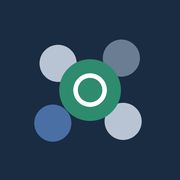
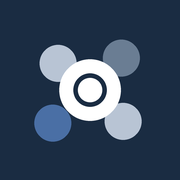
Chooser: Auswahl in Navy-Blautönen statt Grün

Changed region(s): [[0.3056, 0.3056, 0.6944, 0.6944]]

diff --git a/chooser/index.html b/chooser/index.html
@@ -14,7 +14,7 @@
 <link rel="icon" type="image/png" href="icon-192.png">
 <title>Chooser</title>
 <style>
-/* Navy Research: weißer Grund, ein Navy, Grün nur für „gewählt“. Oben eine schmale Leiste mit der Anzahl,
+/* Navy Research: weißer Grund, Blautöne; „gewählt“ ist Navy (im Dunkeln Blau). Oben eine schmale Leiste mit der Anzahl,
    darunter die ganze Fläche für Finger. Kreise sind die einzige runde Form (radius-dot). */
 :root {
   --sans: "Neue Montreal", "Helvetica Neue", Helvetica, Arial, sans-serif;
@@ -26,7 +26,8 @@
   --rule: #d6dce4;        /* line */
   --accent: #1a2c42;      /* navy */
   --on-accent: #ffffff;
-  --chosen: #2e8b6e;      /* green: gewählt */
+  --chosen: #1a2c42;      /* navy: gewählt */
+  --chosen-text: #1a2c42;
   --focus: #4a6fa5;
   /* Fingerfarben: Reihenfolge der Navy-Serien */
   --f1: #1a2c42; --f2: #4a6fa5; --f3: #6a7d93; --f4: #3a4a5c; --f5: #b8c4d4; --f6: #0d1b2a;
@@ -35,14 +36,14 @@
 @media (prefers-color-scheme: dark) {
   :root:not([data-theme="light"]) {
     --bg: #0d1b2a; --surface: #1a2c42; --text: #ffffff; --small: #dde3ea; --muted: #b8c4d4;
-    --rule: #6a7d93; --accent: #ffffff; --on-accent: #0d1b2a; --chosen: #3fae8b; --focus: #b8c4d4;
+    --rule: #6a7d93; --accent: #ffffff; --on-accent: #0d1b2a; --chosen: #4a6fa5; --chosen-text: #b8c4d4; --focus: #b8c4d4;
     --f1: #ffffff; --f2: #b8c4d4; --f3: #4a6fa5; --f4: #dde3ea; --f5: #6a7d93; --f6: #e8eef6;
     color-scheme: dark;
   }
 }
 :root[data-theme="dark"] {
   --bg: #0d1b2a; --surface: #1a2c42; --text: #ffffff; --small: #dde3ea; --muted: #b8c4d4;
-  --rule: #6a7d93; --accent: #ffffff; --on-accent: #0d1b2a; --chosen: #3fae8b; --focus: #b8c4d4;
+  --rule: #6a7d93; --accent: #ffffff; --on-accent: #0d1b2a; --chosen: #4a6fa5; --chosen-text: #b8c4d4; --focus: #b8c4d4;
   --f1: #ffffff; --f2: #b8c4d4; --f3: #4a6fa5; --f4: #dde3ea; --f5: #6a7d93; --f6: #e8eef6;
   color-scheme: dark;
 }
@@ -92,7 +93,7 @@ h1 { margin: 0; font-size: 24px; font-weight: 700; letter-spacing: -.01em; }
 }
 .status .big { margin: 0; font-size: clamp(26px, 7vmin, 40px); font-weight: 700; line-height: 1.1; text-wrap: balance; }
 .status .line { margin: 0; font-size: 16px; color: var(--small); text-wrap: balance; max-width: 34ch; }
-.status.done .big { color: var(--chosen); }
+.status.done .big { color: var(--chosen-text); }
 .status.flood .big, .status.flood .line { color: #ffffff; }
 .status.center { top: 50%; transform: translateY(-50%); }
 
@@ -169,7 +170,7 @@ h1 { margin: 0; font-size: 24px; font-weight: 700; letter-spacing: -.01em; }
 
   /* ---------- Finger ---------- */
   var stage = $("#stage"), cv = $("#cv"), ctx = cv.getContext("2d");
-  var palette = [], chosenColor = "#2e8b6e", textColor = "#0d1b2a", bgColor = "#ffffff";
+  var palette = [], chosenColor = "#1a2c42", textColor = "#0d1b2a", bgColor = "#ffffff";
   function readColors() {
     var cs = getComputedStyle(document.documentElement);
     palette = ["--f1", "--f2", "--f3", "--f4", "--f5", "--f6"].map(function (v) { return cs.getPropertyValue(v).trim(); });
@@ -346,7 +347,7 @@ h1 { margin: 0; font-size: 24px; font-weight: 700; letter-spacing: -.01em; }
       beat = Math.pow(Math.sin(Math.PI * Math.min(1, p / 0.55)), 2);  // Schlag in der ersten Hälfte, dann Ruhe
     }
 
-    // Eine Person gewählt: Grün flutet vom Gewinnerfinger aus den Bildschirm
+    // Eine Person gewählt: Navy flutet vom Gewinnerfinger aus den Bildschirm
     if (done && flood) {
       var maxR = Math.hypot(Math.max(flood.x, W - flood.x), Math.max(flood.y, H - flood.y));
       ctx.fillStyle = chosenColor;

diff --git a/chooser/sw.js b/chooser/sw.js
@@ -4,7 +4,7 @@
 // Alle Spiele liegen auf derselben Domain und teilen sich den Cache-Speicher:
 // Deshalb räumt diese App nur Caches mit ihrem eigenen Präfix auf.
 const PREFIX = "chooser-";
-const CACHE = PREFIX + "v2";
+const CACHE = PREFIX + "v3";
 const FILES = ["./", "index.html", "manifest.webmanifest", "icon-180.png", "icon-192.png", "icon-512.png"];
 
 self.addEventListener("install", (event) => {

diff --git a/README.md b/README.md
@@ -61,7 +61,7 @@ Technik: Die Handys finden sich über den kostenlosen Vermittlungsdienst von Pee
 
 ## Chooser
 
-Alle legen einen Finger aufs Display. Sobald keine Finger mehr dazukommen, pochen die Ringe dreimal im Sekundentakt, dann wählt die App zufällig aus. Gewählte Finger werden grün, die anderen verblassen. Bei genau einer gewählten Person flutet Grün den Bildschirm. Alle Finger loslassen startet die nächste Runde.
+Alle legen einen Finger aufs Display. Sobald keine Finger mehr dazukommen, pochen die Ringe dreimal im Sekundentakt, dann wählt die App zufällig aus. Gewählte Finger werden dunkelblau hervorgehoben, die anderen verblassen. Bei genau einer gewählten Person flutet Navy den Bildschirm. Alle Finger loslassen startet die nächste Runde.
 
 - Oben in der Mitte stellst du ein, wie viele gewählt werden: mit −/+ oder indem du die Zahl antippst und eintippst. Keine Obergrenze.
 - Es braucht immer mindestens einen Finger mehr, als gewählt werden. Wie viele Finger gleichzeitig erkannt werden, begrenzt nur das Handy selbst.
